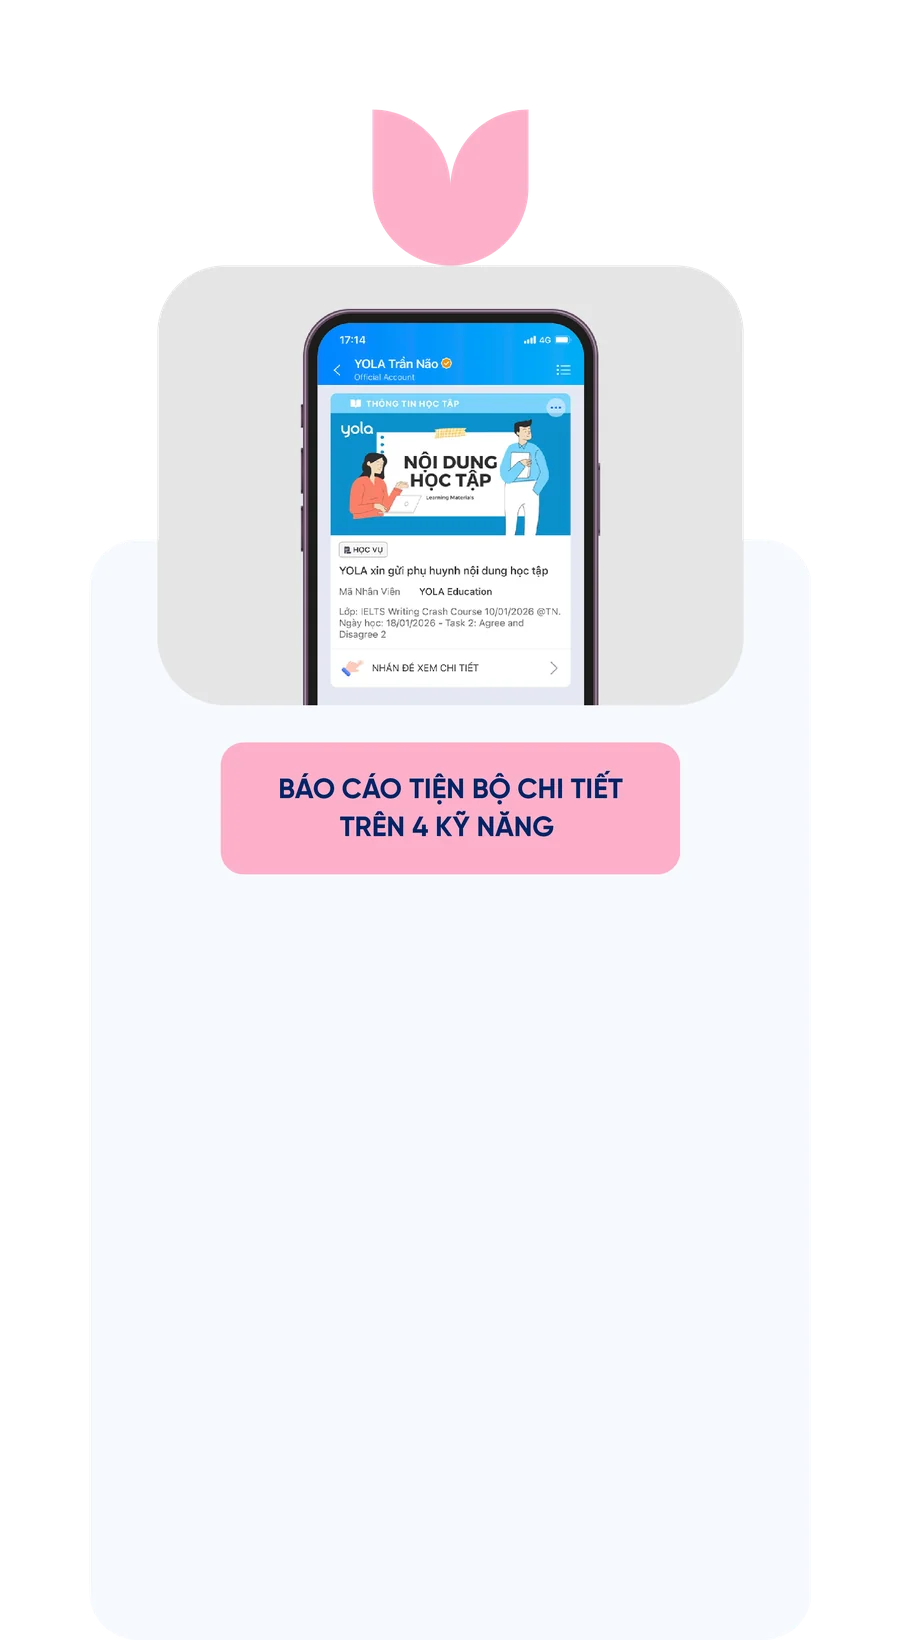
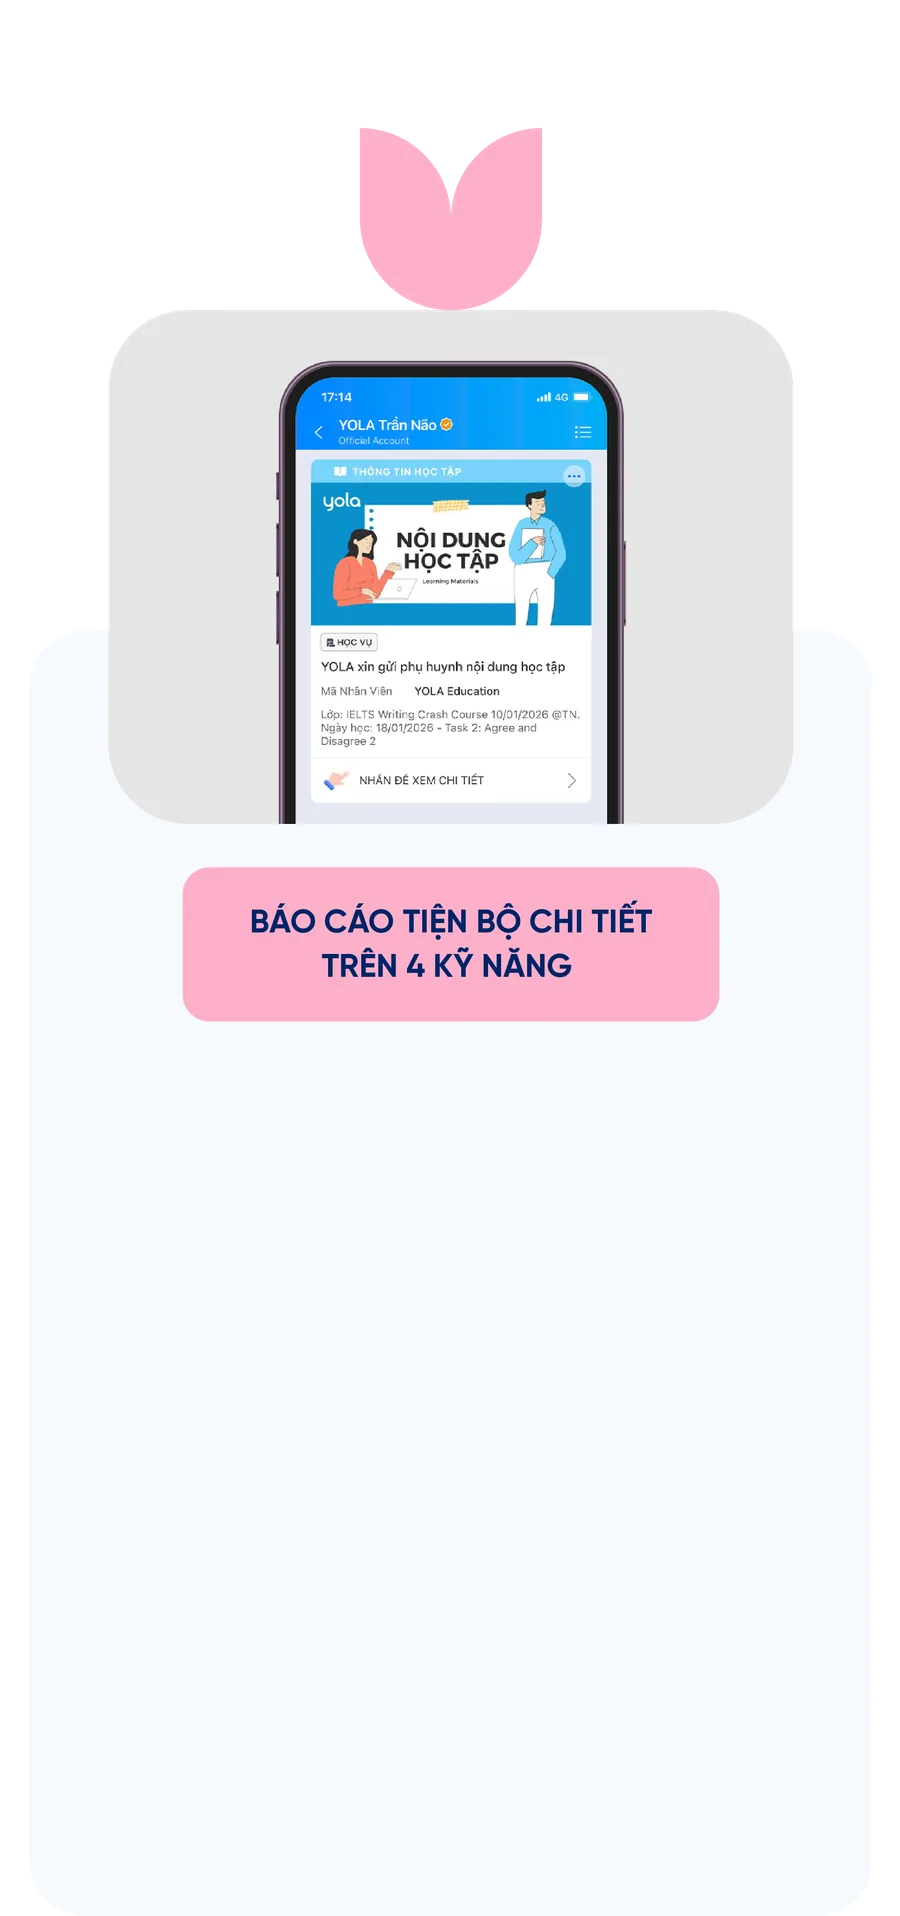
LP giới thiệu YOLA: card section 3 mobile to hơn, sát nhau như section 2
Claude-Session: https://claude.ai/code/session_01SFdUKDWz5C1xDm6uD4ha55

diff --git a/gioi-thieu-yola/index.html b/gioi-thieu-yola/index.html
@@ -366,7 +366,7 @@ footer li a:hover{color:var(--sky)}
 .s3-head{display:flex;align-items:center;justify-content:center;gap:10px;flex-wrap:wrap;margin:0 auto 24px}
 .s3-head img{width:min(250px,60vw);height:auto}
 .s3-head span{color:#fff;font-weight:800;font-size:26px;text-transform:uppercase;letter-spacing:.01em;line-height:1}
-#s3slide .cslide-card .tb{font-size:4.2cqw}
+#s3slide .cslide-card .tb{font-size:3.9cqw}
 </style>
 </head>
 <body>
@@ -409,7 +409,7 @@ footer li a:hover{color:var(--sky)}
   <div class="only-m">
     <div class="s3-head"><img src="../assets/img_rb_s3_title_m.webp" alt="Rõ tiến bộ" width="900" height="286" loading="lazy"><span>Trên từng khoá học</span></div>
     <div class="cslide" id="s3slide" data-autoplay="4200">
-      <div class="cslide-track car-scroll" id="s3slide-track"><div class="comp cslide-card"><img src="../assets/img_rb_s3_card1_m.webp" alt="" loading="lazy" width="900" height="1640"><div class="tb dark" style="left:14.14%;top:55.95%;width:71.96%;height:41.10%"><p>Sau mỗi buổi học, ba mẹ được cập nhật chi tiết qua Zalo: hôm nay con học gì, 4 kỹ năng tiến bộ đến đâu, con thể hiện thế nào trong&nbsp;lớp.</p></div></div><div class="comp cslide-card"><img src="../assets/img_rb_s3_card2_m.webp" alt="" loading="lazy" width="900" height="1640"><div class="tb dark" style="left:14.14%;top:55.83%;width:71.96%;height:41.10%"><p>Con cần hỗ trợ kỹ năng nào, thầy cô kèm kịp thời kỹ năng đó. Khi phát hiện kỹ năng yếu, học sinh được học miễn phí: lớp kèm riêng, học nhóm, ôn ngữ pháp hay luyện Cambridge trước kỳ&nbsp;thi.</p><p>Phát hiện sớm, hỗ trợ sát sao kịp thời để đảm bảo sự tiến bộ cho&nbsp;con.</p></div></div><div class="comp cslide-card"><img src="../assets/img_rb_s3_card3_m.webp" alt="" loading="lazy" width="900" height="1640"><div class="tb dark" style="left:14.02%;top:55.58%;width:72.21%;height:41.10%"><p>Lớp trung bình 11–12 học sinh để buổi nào con cũng được nói, được&nbsp;sửa.</p><p>Giáo viên sâu sát, biết điểm mạnh và điểm yếu của từng học&nbsp;sinh.</p></div></div></div>
+      <div class="cslide-track car-scroll" id="s3slide-track"><div class="comp cslide-card"><img src="../assets/img_rb_s3_card1_m.webp" alt="" loading="lazy" width="900" height="1916"><div class="tb dark" style="left:8.12%;top:55.95%;width:84.06%;height:41.10%"><p>Sau mỗi buổi học, ba mẹ được cập nhật chi tiết qua Zalo: hôm nay con học gì, 4 kỹ năng tiến bộ đến đâu, con thể hiện thế nào trong&nbsp;lớp.</p></div></div><div class="comp cslide-card"><img src="../assets/img_rb_s3_card2_m.webp" alt="" loading="lazy" width="900" height="1916"><div class="tb dark" style="left:8.12%;top:55.83%;width:84.06%;height:41.10%"><p>Con cần hỗ trợ kỹ năng nào, thầy cô kèm kịp thời kỹ năng đó. Khi phát hiện kỹ năng yếu, học sinh được học miễn phí: lớp kèm riêng, học nhóm, ôn ngữ pháp hay luyện Cambridge trước kỳ&nbsp;thi.</p><p>Phát hiện sớm, hỗ trợ sát sao kịp thời để đảm bảo sự tiến bộ cho&nbsp;con.</p></div></div><div class="comp cslide-card"><img src="../assets/img_rb_s3_card3_m.webp" alt="" loading="lazy" width="900" height="1916"><div class="tb dark" style="left:7.97%;top:55.58%;width:84.35%;height:41.10%"><p>Lớp trung bình 11–12 học sinh để buổi nào con cũng được nói, được&nbsp;sửa.</p><p>Giáo viên sâu sát, biết điểm mạnh và điểm yếu của từng học&nbsp;sinh.</p></div></div></div>
       <div class="cslide-dots" aria-hidden="true"></div>
     </div>
   </div>
